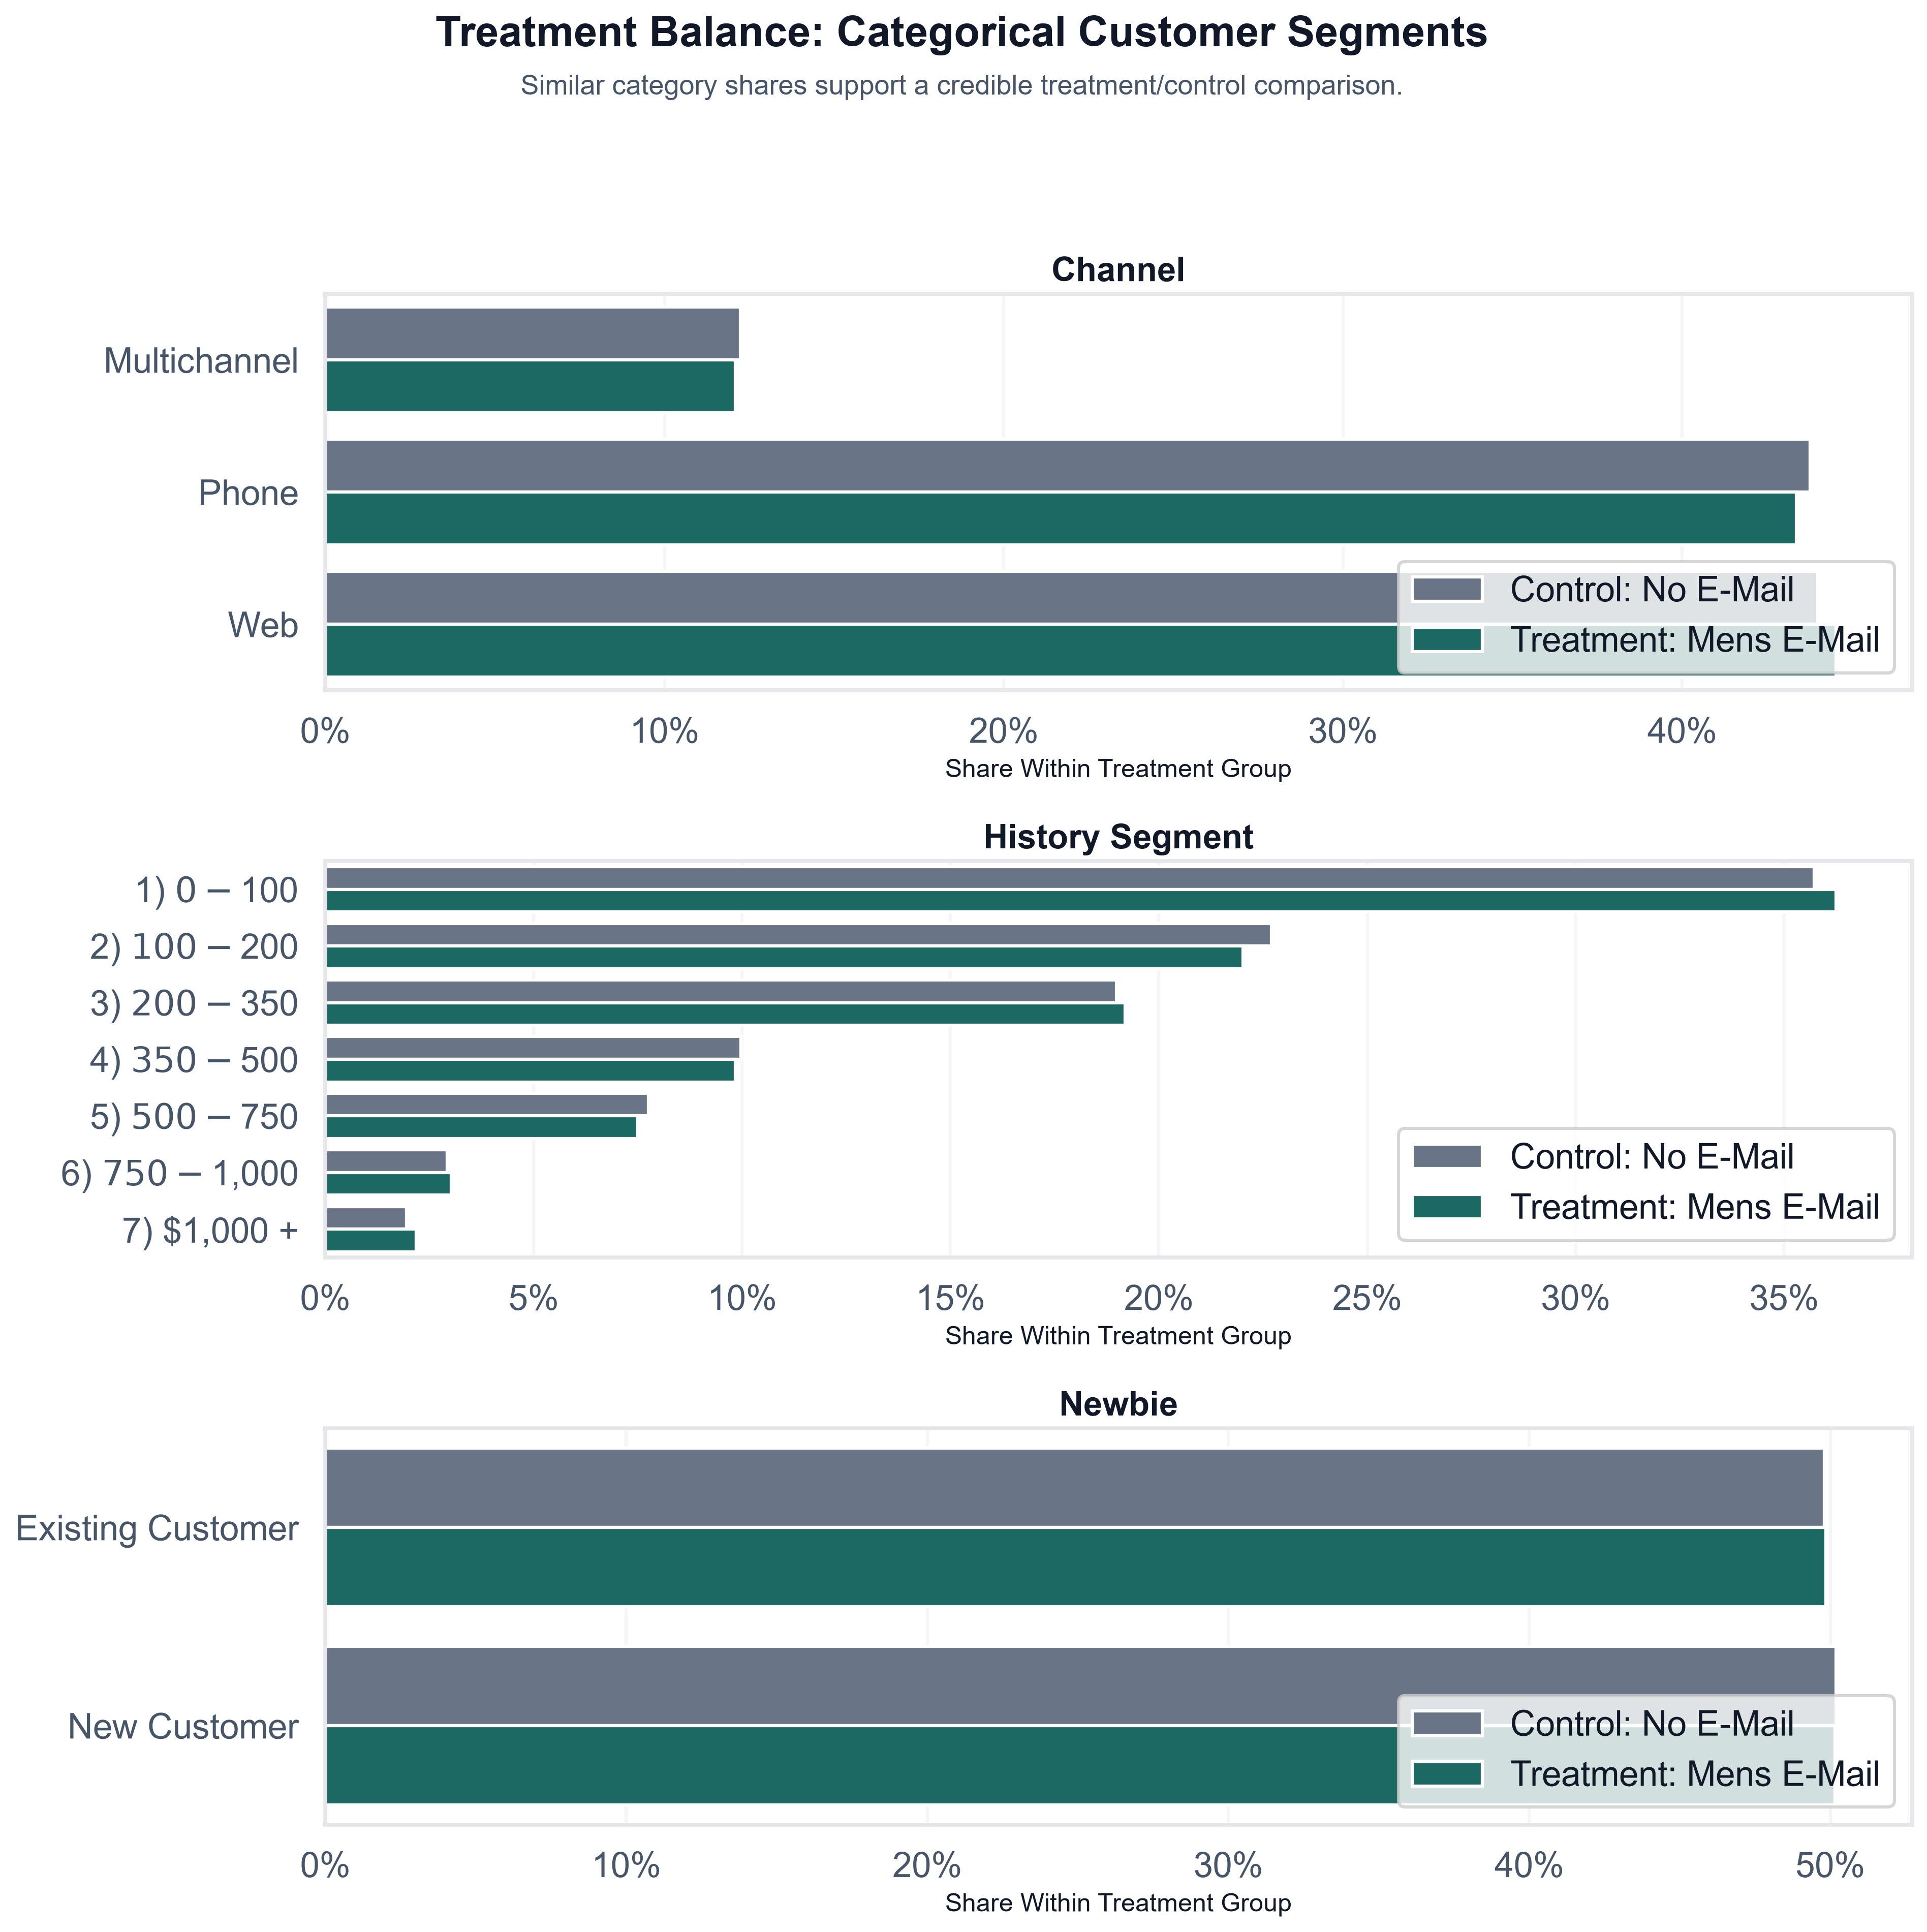
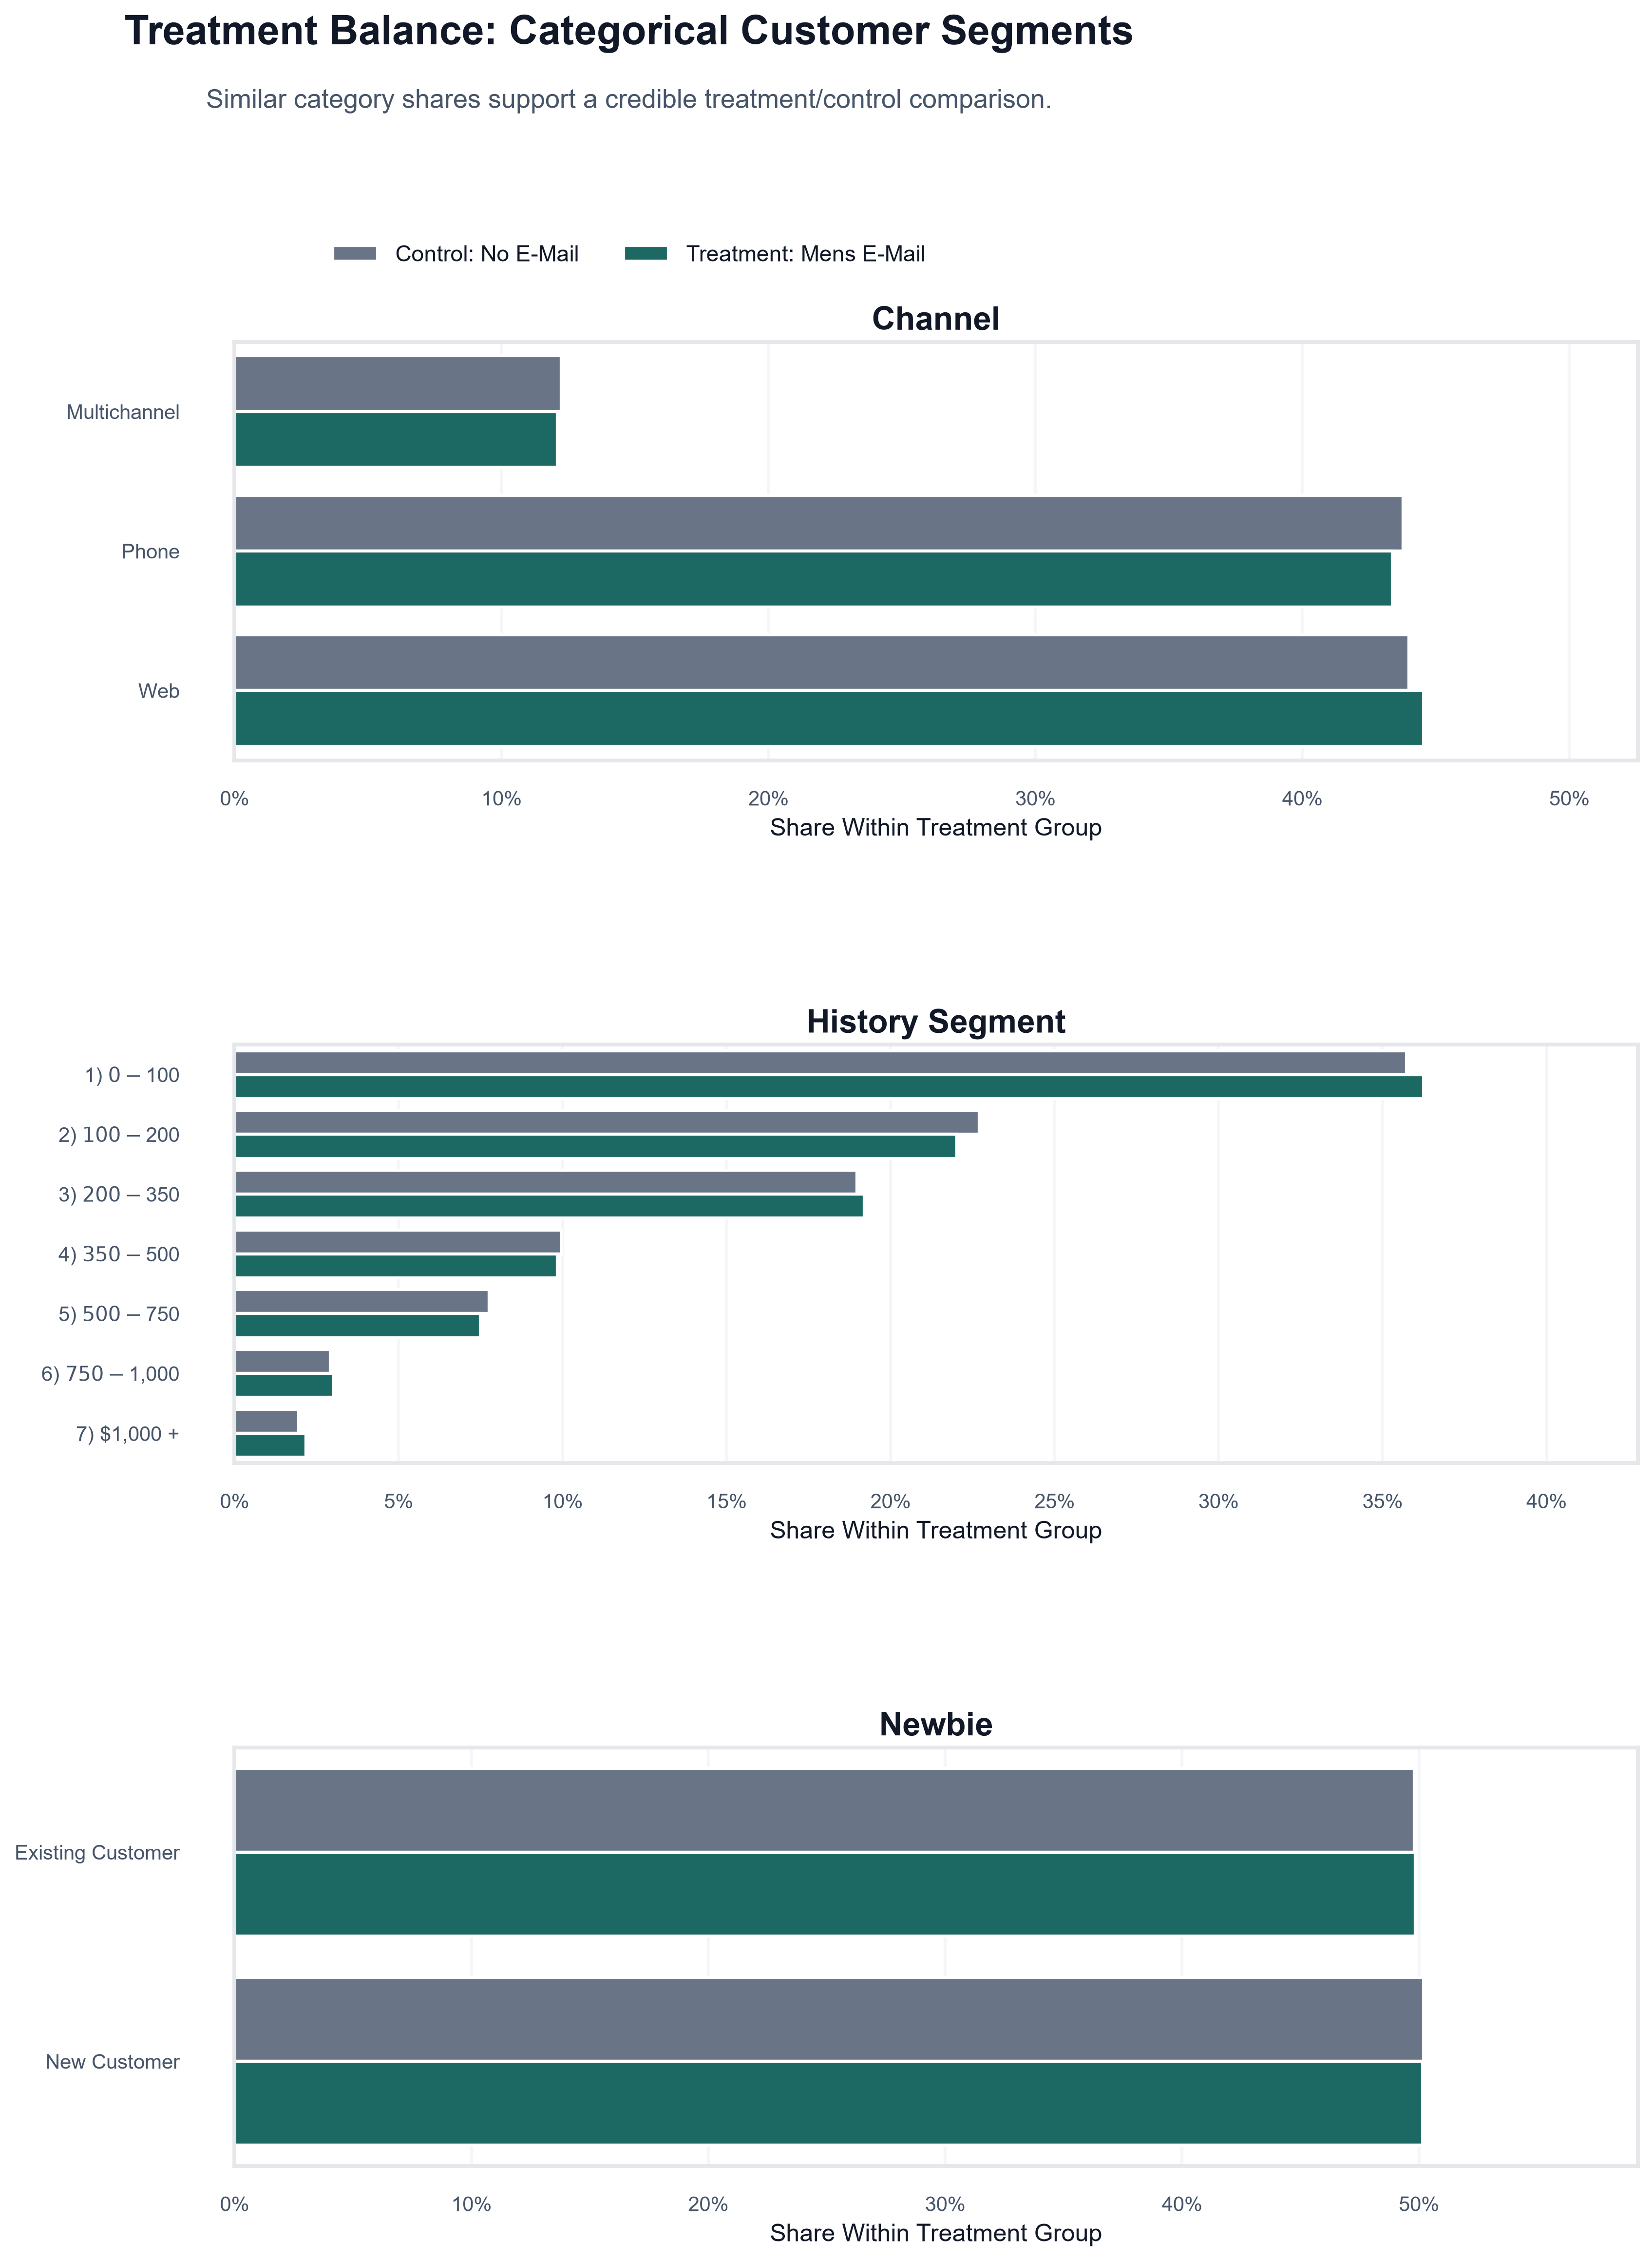
Polish dashboard theme and chart layouts

diff --git a/src/analysis/causal_eda.py b/src/analysis/causal_eda.py
@@ -12,6 +12,7 @@ from sklearn.pipeline import Pipeline
 
 from src.config import FIGURES_DIR, PROCESSED_DATA_DIR, REPORTS_DIR
 from src.features.build_features import build_preprocessor, get_feature_columns
+from src.visualization.plots import wrap_labels
 
 
 PROCESSED_DATA_PATH = PROCESSED_DATA_DIR / "hillstrom_mens_email.csv"
@@ -410,49 +411,105 @@ def _set_theme(plt, sns) -> None:
 
 def _plot_numeric_overlap(plt, sns, FuncFormatter, plot_df: pd.DataFrame) -> None:
     """Plot numeric covariate overlap between treatment and control."""
-    fig, axes = plt.subplots(2, 3, figsize=(16, 9))
+    fig, axes = plt.subplots(2, 3, figsize=(17, 10))
     axes = axes.flatten()
+    legend_handles = [
+        plt.Line2D([0], [0], color=GROUP_COLORS[group], linewidth=6)
+        for group in GROUP_ORDER
+    ]
 
     for ax, feature in zip(axes, NUMERIC_OVERLAP_FEATURES):
         is_binary = feature in {"mens", "womens", "newbie"}
-        sns.histplot(
-            data=plot_df,
-            x=feature,
-            hue="group",
-            hue_order=GROUP_ORDER,
-            stat="density",
-            common_norm=False,
-            element="step",
-            fill=True,
-            alpha=0.25,
-            bins=[-0.5, 0.5, 1.5] if is_binary else 24,
-            discrete=is_binary,
-            palette=GROUP_COLORS,
-            ax=ax,
-        )
+
+        if is_binary:
+            binary_balance = (
+                plot_df.groupby(["group", feature])
+                .size()
+                .reset_index(name="customers")
+            )
+            binary_balance["share"] = binary_balance.groupby("group")[
+                "customers"
+            ].transform(lambda values: values / values.sum())
+            pivot = (
+                binary_balance.pivot(index=feature, columns="group", values="share")
+                .reindex([0, 1])
+                .reindex(columns=GROUP_ORDER)
+                .fillna(0)
+            )
+
+            x_positions = [0, 1]
+            bar_width = 0.34
+            for group_index, group in enumerate(GROUP_ORDER):
+                offset = (group_index - 0.5) * bar_width
+                ax.bar(
+                    [position + offset for position in x_positions],
+                    pivot[group].tolist(),
+                    width=bar_width,
+                    color=GROUP_COLORS[group],
+                    alpha=0.85,
+                    label=group,
+                )
+
+            ax.set_xticks(x_positions)
+            ax.set_xticklabels(["No", "Yes"])
+            ax.yaxis.set_major_formatter(FuncFormatter(lambda value, _: f"{value:.0%}"))
+            ax.set_ylabel("Share within group")
+            ax.grid(axis="y", alpha=0.30)
+        else:
+            sns.histplot(
+                data=plot_df,
+                x=feature,
+                hue="group",
+                hue_order=GROUP_ORDER,
+                stat="density",
+                common_norm=False,
+                element="step",
+                fill=True,
+                alpha=0.18,
+                linewidth=1.8,
+                bins=28,
+                palette=GROUP_COLORS,
+                ax=ax,
+            )
+            if ax.get_legend() is not None:
+                ax.get_legend().remove()
+            ax.set_ylabel("Density")
+            ax.grid(axis="y", alpha=0.30)
+
         ax.set_title(feature.replace("_", " ").title())
         ax.set_xlabel("Pre-campaign value")
-        ax.set_ylabel("Density")
-        ax.grid(axis="y", alpha=0.35)
+        ax.tick_params(axis="both", labelsize=10, pad=6)
 
     axes[-1].axis("off")
     fig.suptitle("Treatment Balance: Pre-Campaign Numeric Covariates")
     fig.text(
         0.5,
-        0.93,
+        0.925,
         "Do Mens E-Mail and No E-Mail customers look similar before treatment?",
         ha="center",
         color=MUTED_TEXT_COLOR,
         fontsize=13,
     )
-    fig.tight_layout(rect=[0, 0, 1, 0.91])
+    fig.legend(
+        legend_handles,
+        GROUP_ORDER,
+        title="",
+        loc="upper center",
+        bbox_to_anchor=(0.5, 0.875),
+        ncol=2,
+        frameon=False,
+        fontsize=11,
+    )
+    fig.subplots_adjust(left=0.07, right=0.98, top=0.80, bottom=0.08, wspace=0.28, hspace=0.48)
     fig.savefig(FIGURES_DIR / "causal_eda_numeric_overlap.png", dpi=300, bbox_inches="tight")
     plt.close(fig)
 
 
 def _plot_categorical_balance(plt, sns, FuncFormatter, plot_df: pd.DataFrame) -> None:
     """Plot categorical covariate balance between treatment and control."""
-    fig, axes = plt.subplots(3, 1, figsize=(13, 13))
+    fig, axes = plt.subplots(3, 1, figsize=(15, 16))
+    legend_handles = None
+    legend_labels = None
 
     for ax, feature in zip(axes, CATEGORICAL_BALANCE_FEATURES):
         balance_df = (
@@ -473,11 +530,21 @@ def _plot_categorical_balance(plt, sns, FuncFormatter, plot_df: pd.DataFrame) ->
             palette=GROUP_COLORS,
             ax=ax,
         )
+        if ax.get_legend() is not None:
+            legend_handles, legend_labels = ax.get_legend_handles_labels()
+            ax.get_legend().remove()
+
         ax.set_title(feature.replace("_label", "").replace("_", " ").title())
         ax.set_xlabel("Share Within Treatment Group")
         ax.set_ylabel("")
         ax.xaxis.set_major_formatter(FuncFormatter(lambda value, _: f"{value:.0%}"))
-        ax.legend(title="", loc="lower right")
+        ax.set_xlim(0, max(balance_df["share"].max() * 1.18, 0.05))
+        y_tick_positions = ax.get_yticks()
+        y_tick_labels = [tick.get_text() for tick in ax.get_yticklabels()]
+        ax.set_yticks(y_tick_positions)
+        ax.set_yticklabels(wrap_labels(y_tick_labels, width=22))
+        ax.tick_params(axis="y", labelsize=10, pad=18)
+        ax.tick_params(axis="x", labelsize=10, pad=6)
         ax.grid(axis="x", alpha=0.35)
 
     fig.suptitle("Treatment Balance: Categorical Customer Segments")
@@ -489,7 +556,19 @@ def _plot_categorical_balance(plt, sns, FuncFormatter, plot_df: pd.DataFrame) ->
         color=MUTED_TEXT_COLOR,
         fontsize=13,
     )
-    fig.tight_layout(rect=[0, 0, 1, 0.92])
+    if legend_handles and legend_labels:
+        fig.legend(
+            legend_handles,
+            legend_labels,
+            title="",
+            loc="upper center",
+            bbox_to_anchor=(0.5, 0.89),
+            ncol=2,
+            frameon=False,
+            fontsize=11,
+        )
+
+    fig.subplots_adjust(left=0.32, right=0.96, top=0.84, bottom=0.06, hspace=0.68)
     fig.savefig(
         FIGURES_DIR / "causal_eda_categorical_balance.png",
         dpi=300,

diff --git a/src/analysis/eda_hillstrom.py b/src/analysis/eda_hillstrom.py
@@ -5,6 +5,8 @@ creates segment-level uplift tables, saves charts, and writes a concise EDA
 report for the PromoLift AI project.
 """
 
+from textwrap import wrap
+
 import pandas as pd
 
 from src.config import FIGURES_DIR, PROCESSED_DATA_DIR, REPORTS_DIR
@@ -818,7 +820,7 @@ def _plot_executive_summary(
         ),
     ]
 
-    fig, ax = plt.subplots(figsize=(13, 7))
+    fig, ax = plt.subplots(figsize=(15, 8))
     fig.patch.set_facecolor("#F8FAFC")
     ax.set_axis_off()
 
@@ -831,22 +833,27 @@ def _plot_executive_summary(
         color=TEXT_COLOR,
         transform=ax.transAxes,
     )
+    subtitle = (
+        "A treatment-control view shows why incremental lift matters before "
+        "building targeting models."
+    )
     ax.text(
         0.04,
         0.83,
-        "A treatment-control view shows why incremental lift matters before building targeting models.",
+        "\n".join(wrap(subtitle, width=105)),
         fontsize=13,
         color=MUTED_TEXT_COLOR,
         transform=ax.transAxes,
     )
 
-    card_width = 0.215
-    card_height = 0.34
-    card_y = 0.34
-    card_gap = 0.025
+    card_width = 0.22
+    card_height = 0.36
+    card_y = 0.36
+    card_gap = 0.02
 
     for index, (label, value, note) in enumerate(cards):
         card_x = 0.04 + index * (card_width + card_gap)
+        card_center = card_x + card_width / 2
         card = FancyBboxPatch(
             (card_x, card_y),
             card_width,
@@ -860,36 +867,44 @@ def _plot_executive_summary(
         ax.add_patch(card)
         value_color = POSITIVE_UPLIFT_COLOR if label == "Absolute Uplift" else TEXT_COLOR
         ax.text(
-            card_x + 0.025,
-            card_y + card_height - 0.09,
+            card_center,
+            card_y + card_height - 0.085,
             label,
             fontsize=11,
             fontweight="bold",
             color=MUTED_TEXT_COLOR,
+            ha="center",
             transform=ax.transAxes,
         )
         ax.text(
-            card_x + 0.025,
-            card_y + 0.16,
+            card_center,
+            card_y + 0.175,
             value,
-            fontsize=25,
+            fontsize=24,
             fontweight="bold",
             color=value_color,
+            ha="center",
             transform=ax.transAxes,
         )
         ax.text(
-            card_x + 0.025,
-            card_y + 0.07,
-            note,
-            fontsize=10,
+            card_center,
+            card_y + 0.075,
+            "\n".join(wrap(note, width=24)),
+            fontsize=9.5,
             color=MUTED_TEXT_COLOR,
+            ha="center",
+            va="center",
             transform=ax.transAxes,
         )
 
+    interpretation = (
+        "Interpretation: the email improved conversion at the aggregate level, "
+        "but segment charts show the response is not uniform. This motivates uplift modeling."
+    )
     ax.text(
         0.04,
         0.18,
-        "Interpretation: the email improved conversion at the aggregate level, but segment charts show the response is not uniform. This motivates uplift modeling.",
+        "\n".join(wrap(interpretation, width=125)),
         fontsize=12,
         color=TEXT_COLOR,
         transform=ax.transAxes,

diff --git a/src/visualization/plots.py b/src/visualization/plots.py
@@ -5,6 +5,7 @@ are designed to explain model behavior and the limits of normal prediction.
 """
 
 from pathlib import Path
+from textwrap import wrap
 
 import pandas as pd
 from sklearn.metrics import (
@@ -23,6 +24,46 @@ BASELINE_COLOR = "#64748B"
 MODEL_COLOR = "#0F766E"
 POSITIVE_COLOR = "#15803D"
 WARNING_COLOR = "#B45309"
+
+
+def save_figure(fig, output_path) -> None:
+    """Save a Matplotlib figure at high resolution and close it."""
+    import matplotlib.pyplot as plt
+
+    output_path = Path(output_path)
+    output_path.parent.mkdir(parents=True, exist_ok=True)
+    fig.savefig(output_path, dpi=300, bbox_inches="tight", facecolor=fig.get_facecolor())
+    plt.close(fig)
+
+
+def apply_readable_style(ax, title=None, xlabel=None, ylabel=None) -> None:
+    """Apply readable title, axis labels, ticks, and light grid styling."""
+    if title:
+        ax.set_title(title, fontsize=16, fontweight="bold", pad=16)
+    if xlabel is not None:
+        ax.set_xlabel(xlabel, fontsize=12, labelpad=10)
+    if ylabel is not None:
+        ax.set_ylabel(ylabel, fontsize=12, labelpad=10)
+
+    ax.tick_params(axis="both", labelsize=10, pad=8)
+    ax.grid(True, alpha=0.30)
+    ax.set_axisbelow(True)
+
+
+def wrap_labels(labels, width=18) -> list[str]:
+    """Wrap long category labels so they do not collide with chart marks."""
+    wrapped_labels = []
+    for label in labels:
+        label_text = str(label)
+        wrapped = wrap(
+            label_text,
+            width=width,
+            break_long_words=False,
+            break_on_hyphens=False,
+        )
+        wrapped_labels.append("\n".join(wrapped) if wrapped else label_text)
+
+    return wrapped_labels
 
 
 def plot_roc_curve(y_true, y_proba, output_path) -> None: